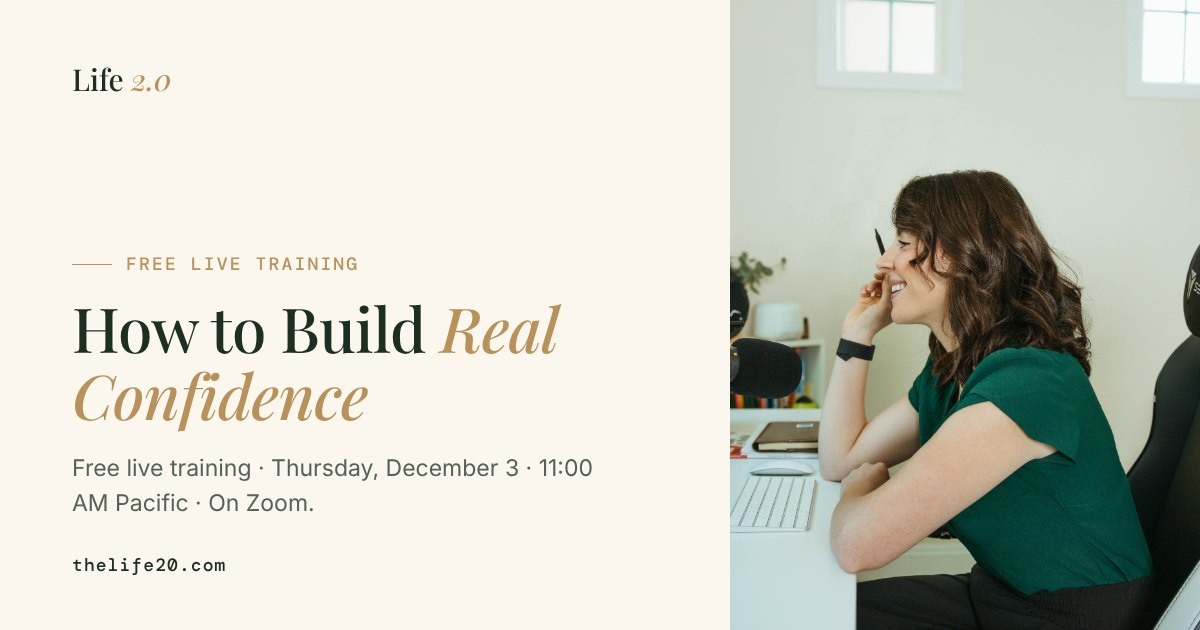
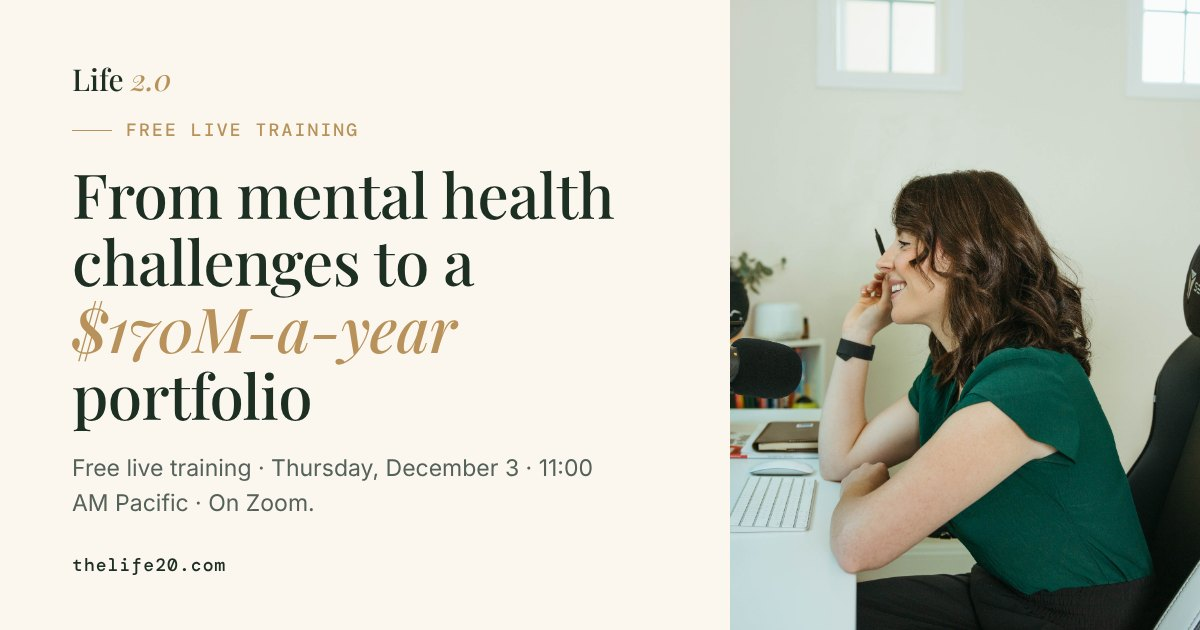
Webinar: new title, mental health story, on-site sign-up form while Zoom is restored
Claude-Session: https://claude.ai/code/session_019MV7isZMDsSFvJoA981ivw

Changed region(s): [[0.0617, 0.2714, 0.5242, 0.6937], [0.0925, 0.181, 0.3083, 0.2111]]

diff --git a/web/src/data/webinars.ts b/web/src/data/webinars.ts
@@ -35,12 +35,15 @@ export const betterMentalHealth: WebinarEvent = {
 // Dec 3, 2026 is after US daylight saving ends (Nov 1), so Pacific is PST, UTC-8.
 export const findYourNextLevel: WebinarEvent = {
   slug: 'blueprint',
-  title: 'How to Build Real Confidence',
+  title: 'From Crippling Mental Health Challenges to a $170 Million-a-Year Portfolio',
   startsAt: '2026-12-03T11:00:00-08:00',
   endsAt: '2026-12-03T12:15:00-08:00',
   timeZone: 'America/Los_Angeles',
   zoomWebinarId: '81086897900',
-  zoomRegistrationUrl: 'https://us02web.zoom.us/webinar/register/WN_hc_DQ_aBRvqlA4uUG3_kng',
+  // Zoom's own registration page. Left off for now so sign-ups use the site's
+  // own form (Laura's Zoom webinar access is being restored). Put it back once
+  // the Zoom webinar shows Dec 3 and the new title.
+  // zoomRegistrationUrl: 'https://us02web.zoom.us/webinar/register/WN_hc_DQ_aBRvqlA4uUG3_kng',
 };
 
 export const codeWebinars: Record<string, WebinarEvent> = {

diff --git a/web/src/pages/blueprint/calendar.ics.ts b/web/src/pages/blueprint/calendar.ics.ts
@@ -21,8 +21,8 @@ export const GET: APIRoute = () => {
     `DTSTART:${icsDate(event.startsAt)}`,
     `DTEND:${icsDate(event.endsAt)}`,
     `SUMMARY:${event.title} (free live training with Laura Kelly)`,
-    'DESCRIPTION:Live on Zoom. Your personal joining link is in your confirmation email.',
-    'LOCATION:Zoom (link in your confirmation email)',
+    'DESCRIPTION:Live on Zoom. Your joining link will arrive by email before the training.',
+    'LOCATION:Zoom (link sent by email before the training)',
     'BEGIN:VALARM',
     'TRIGGER:-PT15M',
     'ACTION:DISPLAY',
